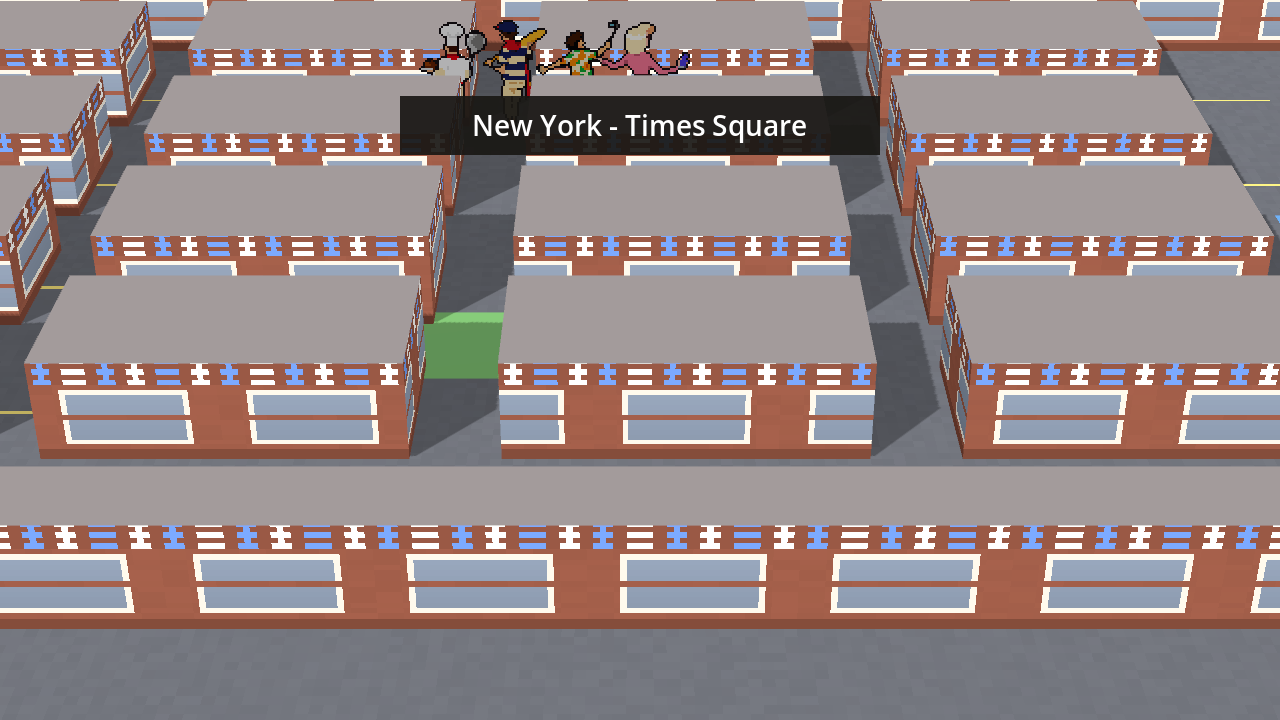
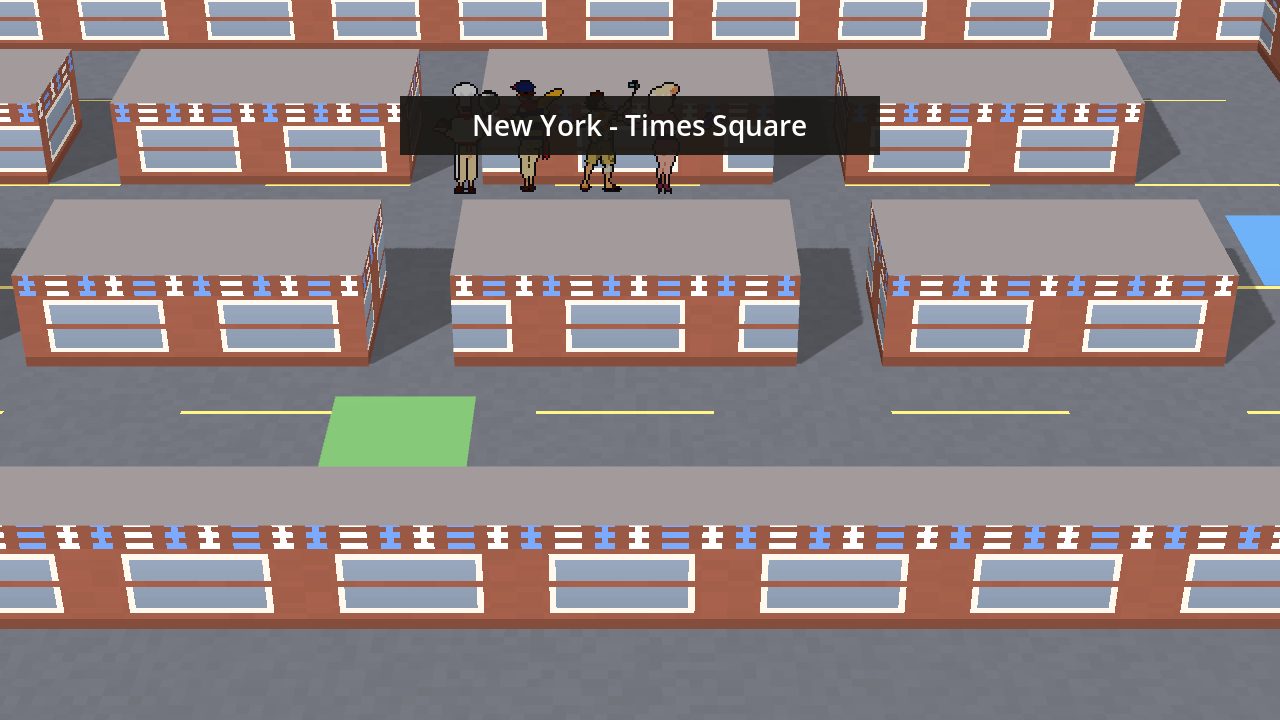
fix: New York town streets no longer hide the squad's feet
Times Square's cross streets were one cell wide with a 1.2 m block to
the south; at the follow camera's 30 deg pitch a block hides ~2 m of
street, and the squad spawned near the north wall under the caption.
Cross streets are now three cells wide (two block rows), the arrival
and segment entry stand on a street's north row, and the café moved to
the south plaza. Map validator: 0 errors.

Evidence: production/qa/evidence/city-layouts/05-newyork-town.png

diff --git a/tools/maps/city_layout_specs.py b/tools/maps/city_layout_specs.py
@@ -267,39 +267,43 @@ SYDNEY = {
 }
 
 NEWYORK = {
-    # Times Square: a street grid of blocks; the café on a corner.
+    # Times Square: a street grid of blocks; the café on the south plaza.
+    # The cross streets are three cells wide: a block hides about 2 m of
+    # street behind it from the follow camera (1.2 m walls, 30 deg pitch), so
+    # on narrower streets the block to the south hid the squad's feet.
+    # Arrivals stand on a street's north row, clear of it.
     "town": {
         "grid": [
             "########################",
             "#......................#",
-            "#.###.####.####.####...#",
-            "#.###.####.####.####...#",
+            "#......................#",
             "#......................#",
             "#.###.####.####.####...#",
             "#.###.####.####.####...#",
             "#......................#",
-            "#.###.####.####.####...#",
-            "#.###.####.####.####...#",
+            "#......................#",
             "#......................#",
             "#.###.####.####.####...#",
             "#.###.####.####.####...#",
+            "#......................#",
+            "#......................#",
             "#......................#",
             "#......................#",
             "########################",
         ],
-        "spawn": (12, 4),
+        "spawn": (13, 6),
         "nodes": {
             "ExitToSegment": {"pos": (22, 8), "trigger_rect": "Rect2(21, 7, 2, 2)"},
-            "EntryFromSegment": {"pos": (18.5, 7.5)},
-            "CampCafe": {"pos": (10.5, 10.5)},
+            "EntryFromSegment": {"pos": (18.5, 6.5)},
+            "CampCafe": {"pos": (10.5, 12.5)},
             "NpcMairieQueueA": {"pos": (5.5, 13.5)},
             "NpcMairieQueueB": {"pos": (6.5, 13.5)},
             "NpcGrumbler": {"pos": (14.5, 13.5)},
             "GagTicketMachine": {"pos": (4.5, 13.5)},
-            "NpcCafeOwner": {"pos": (11.5, 10.5)},
+            "NpcCafeOwner": {"pos": (11.5, 12.5)},
             "BeaconTownOut": {"pos": (22, 8)},
-            "BeaconTownHome": {"pos": (10.5, 10.5)},
-            "EntryArrival": {"pos": (12.5, 4.5)},
+            "BeaconTownHome": {"pos": (10.5, 12.5)},
+            "EntryArrival": {"pos": (13.5, 6.5)},
         },
     },
     # Fifth Avenue: blocks between the cross streets; the north avenue is
